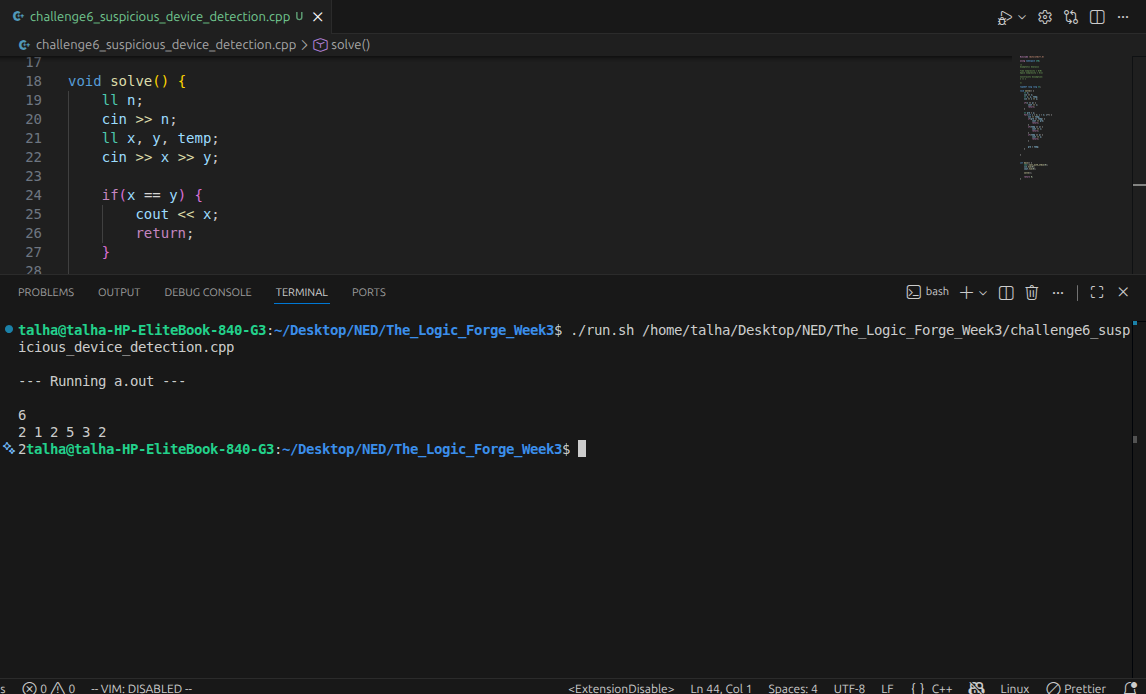
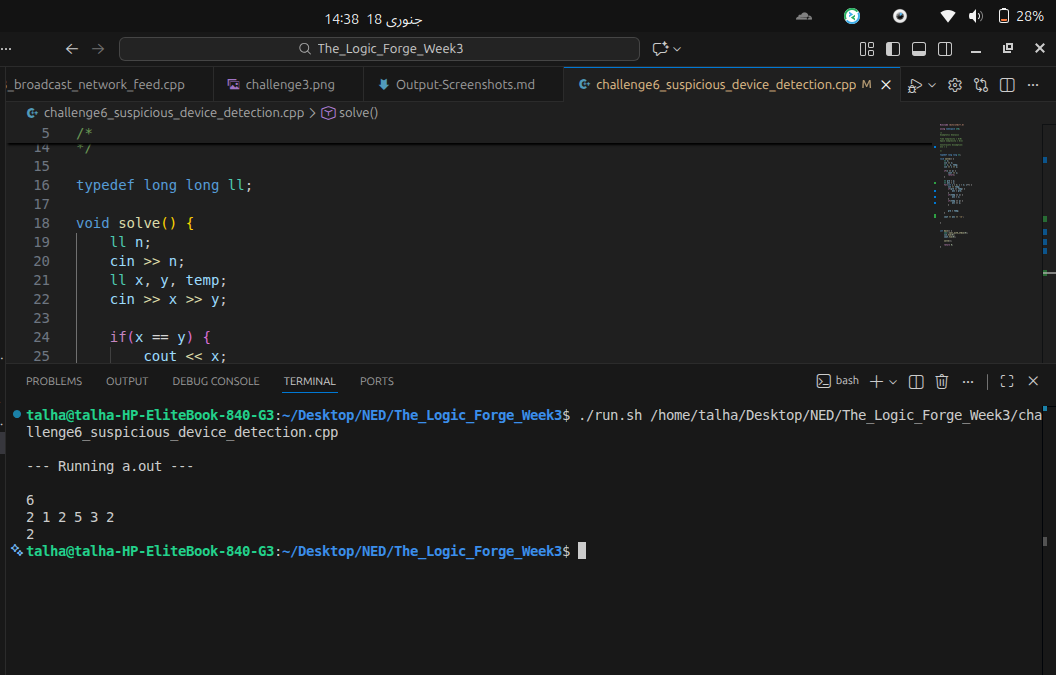
Updated challenge 6

diff --git a/challenge6_suspicious_device_detection.cpp b/challenge6_suspicious_device_detection.cpp
@@ -9,7 +9,7 @@ Time Complexity = O(N)
 Space Complexity = O(1)
 
 Constraints Assumption:
-n >= 1
+2*n > 1
 
 */
 
@@ -27,24 +27,24 @@ void solve() {
     }
 
     ll pre = y;
+    ll ans = x;
     for(int i = 2; i < n; i++) {
         cin >> temp;
         if(pre == temp) {
-            cout << pre;
-            return;
+            ans = pre;
         }
         if(temp == x) {
-            cout << x;
-            return;
+            ans = x;
         }
         if(temp == y) {
-            cout << y;
-            return;
+            ans == y;
         }
 
 
         pre = temp;
     }
+
+    cout << ans << '\n';
 
     
 }
